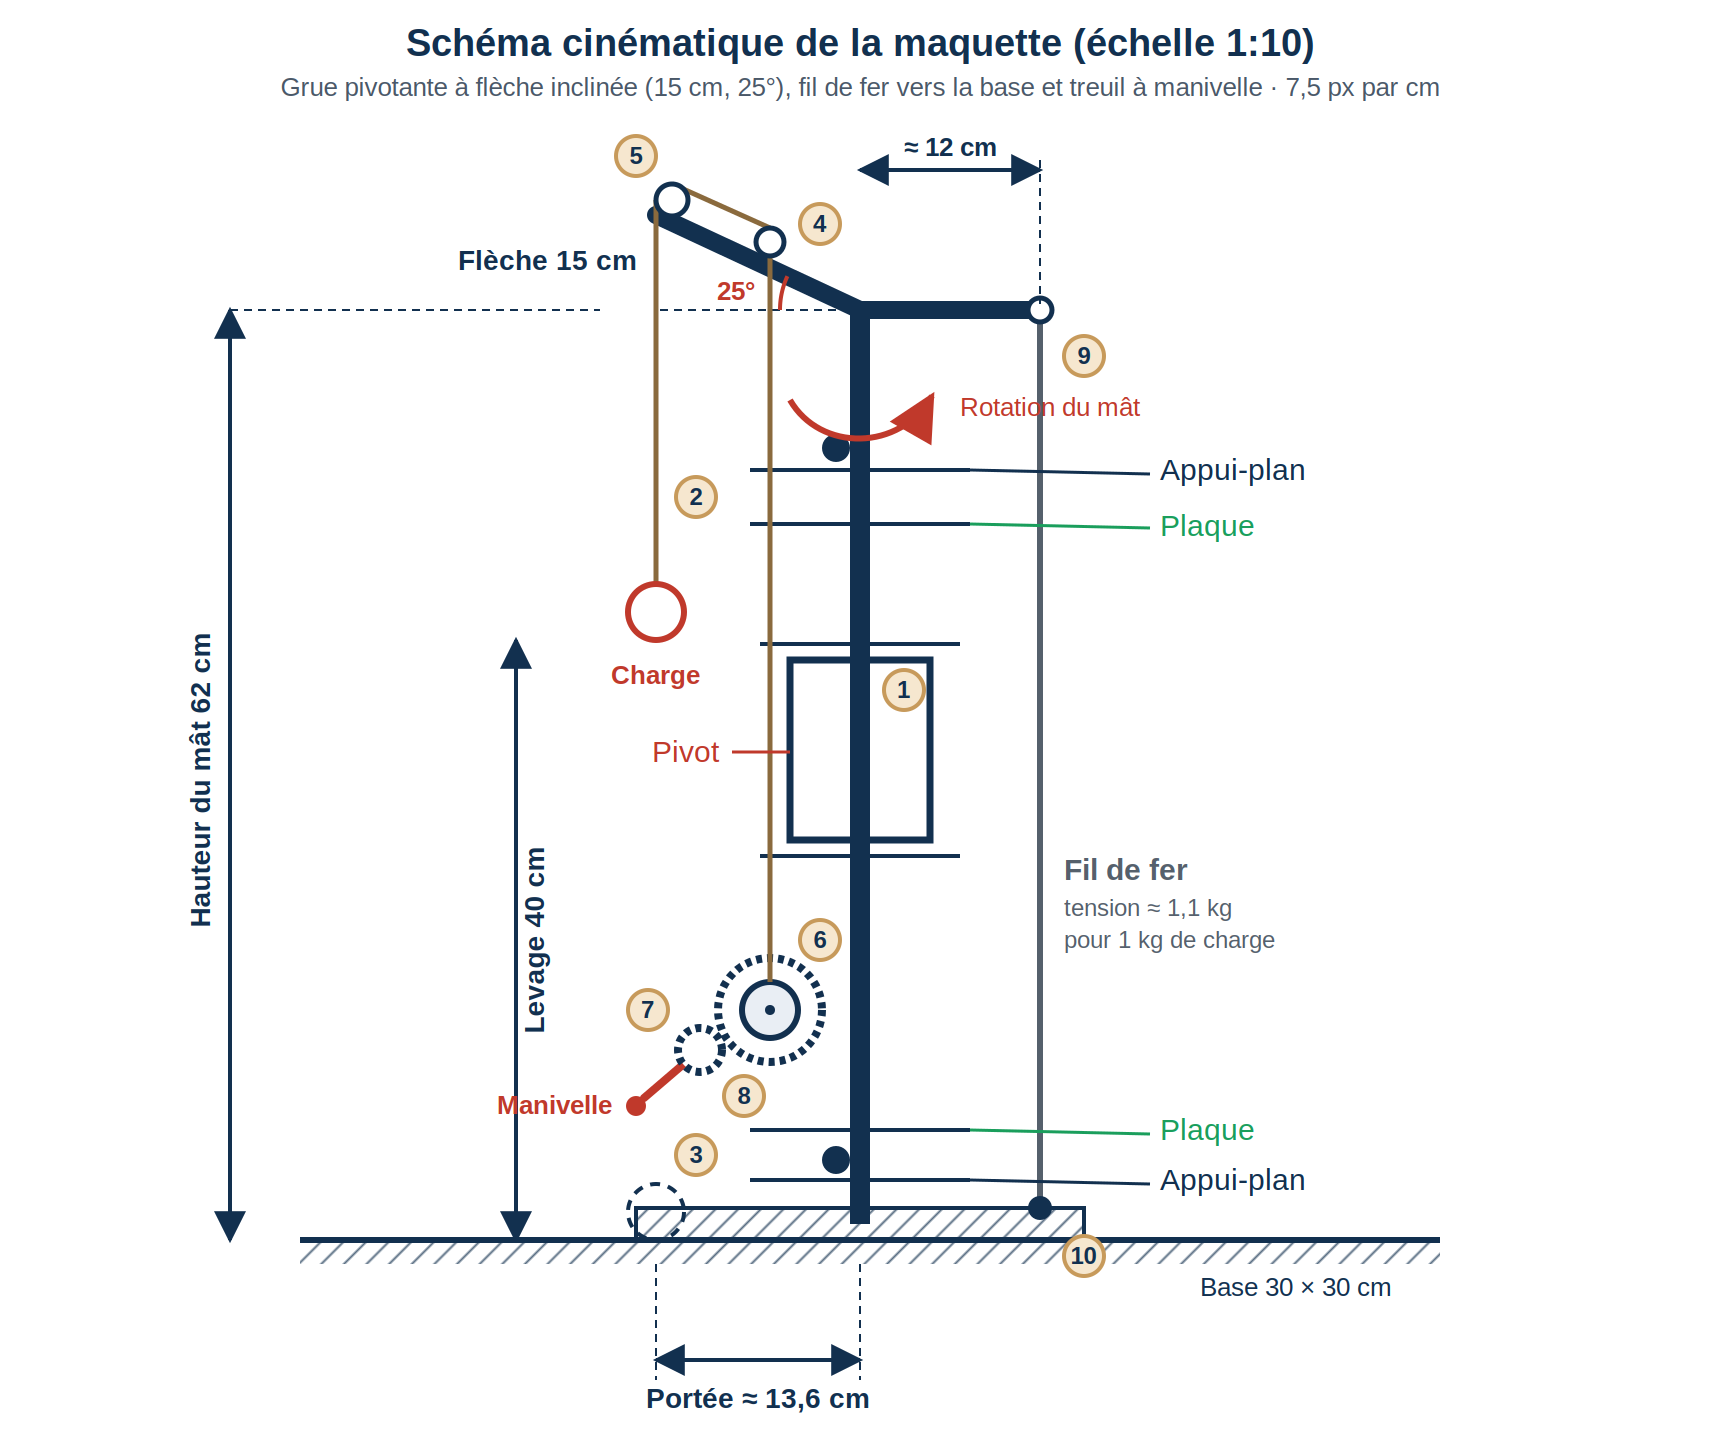
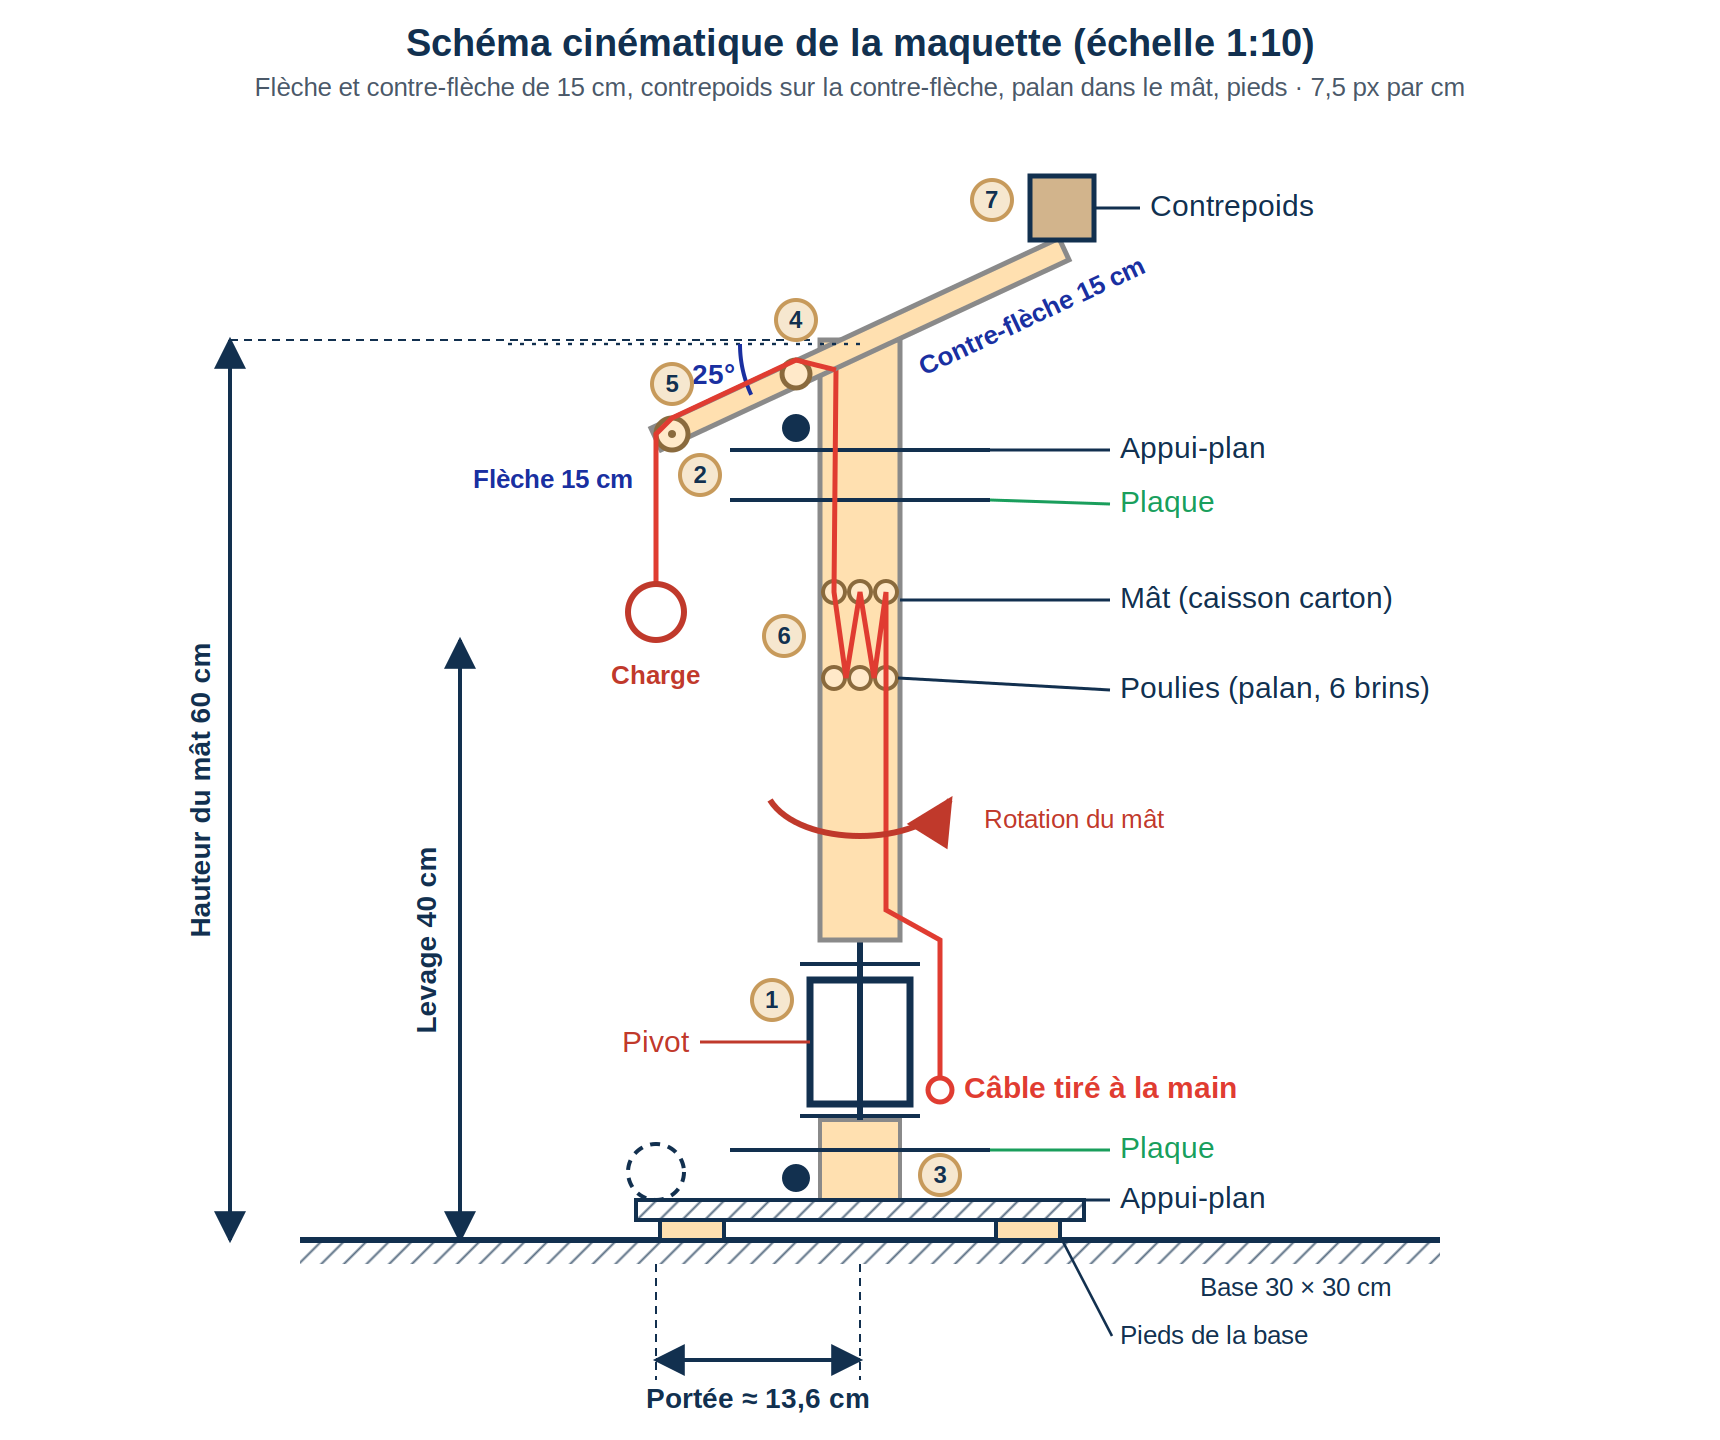
Fusion avec le dépôt GitHub 2

diff --git a/crane3d.js b/crane3d.js
@@ -54,9 +54,10 @@
   const MAST = 6.0;                    // haut du mât : 60 cm
   const ARM = 3.0;                     // bras total : 30 cm (15 cm de chaque côté)
   const ANG = 25 * Math.PI / 180;      // inclinaison SOUS l'horizontale
-  const REACH = (ARM / 2) * Math.cos(ANG);   // portée ≈ 1,36 m (13,6 cm)
-  const TIPY = MAST - (ARM / 2) * Math.sin(ANG); // hauteur du bout de flèche ≈ 5,37 m
-  const COUNTER_TIPY = MAST - (ARM / 2) * Math.sin(ANG); // hauteur du bout de contre-flèche (même hauteur)
+  const REACH = (ARM / 2) * Math.cos(ANG);   // portée horizontale ≈ 1,36 m (13,6 cm)
+  const DROP = (ARM / 2) * Math.sin(ANG);    // descente verticale ≈ 0,63 m (6,3 cm)
+  const TIPY = MAST + DROP;                  // hauteur du bout de flèche (côté droit, plus haut)
+  const COUNTER_TIPY = MAST - DROP;          // hauteur du bout de contre-flèche (côté gauche, plus bas)
   const W = 0.54;                      // mât en caisson 5,4 cm
 
   // Partie fixe : base, montants, deux plaques avec appuis plans, pivot central
